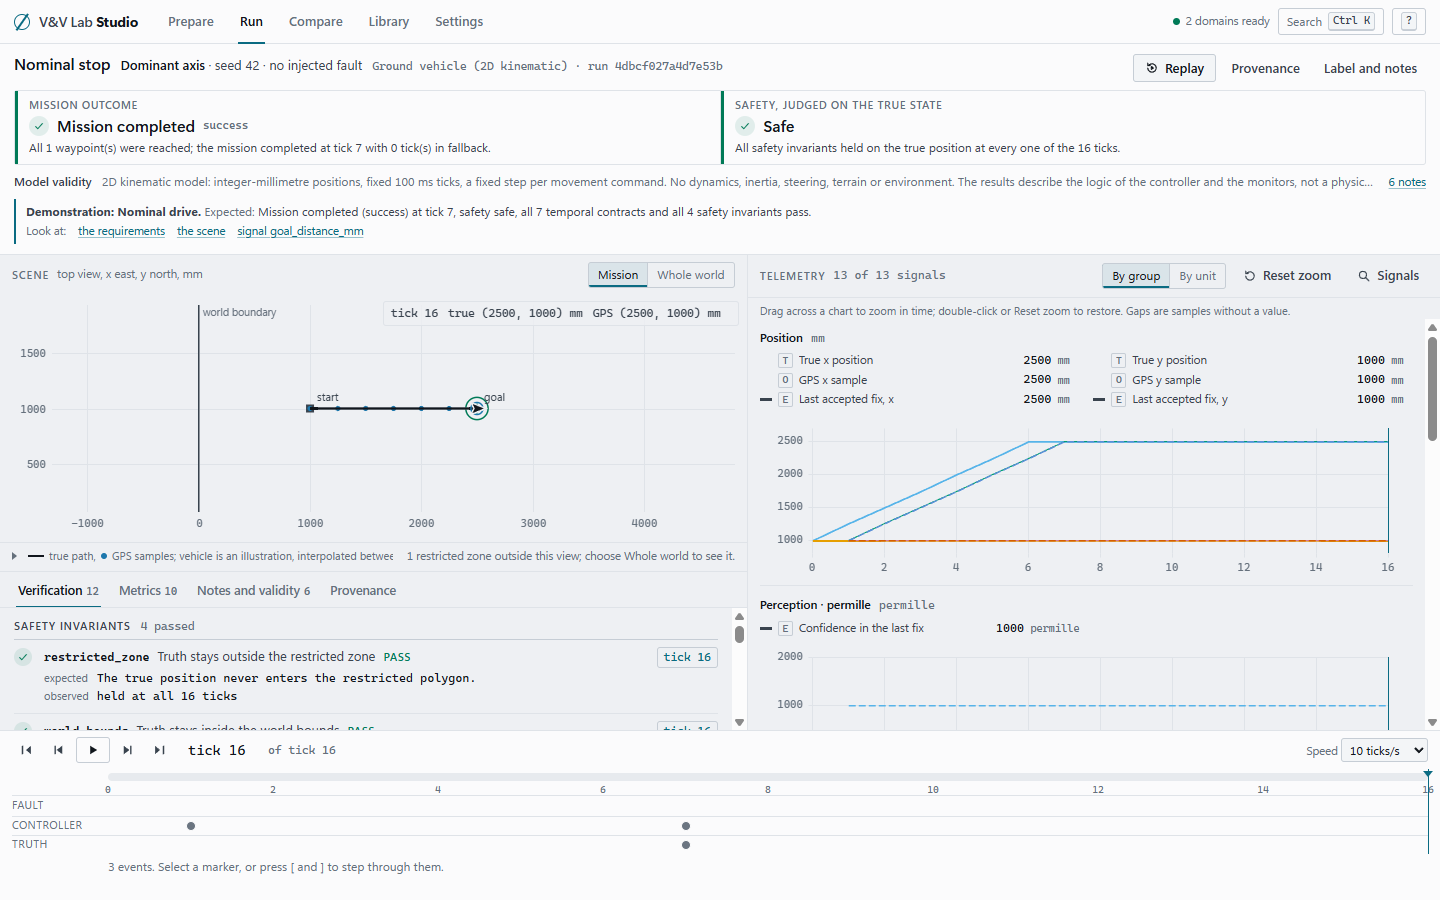
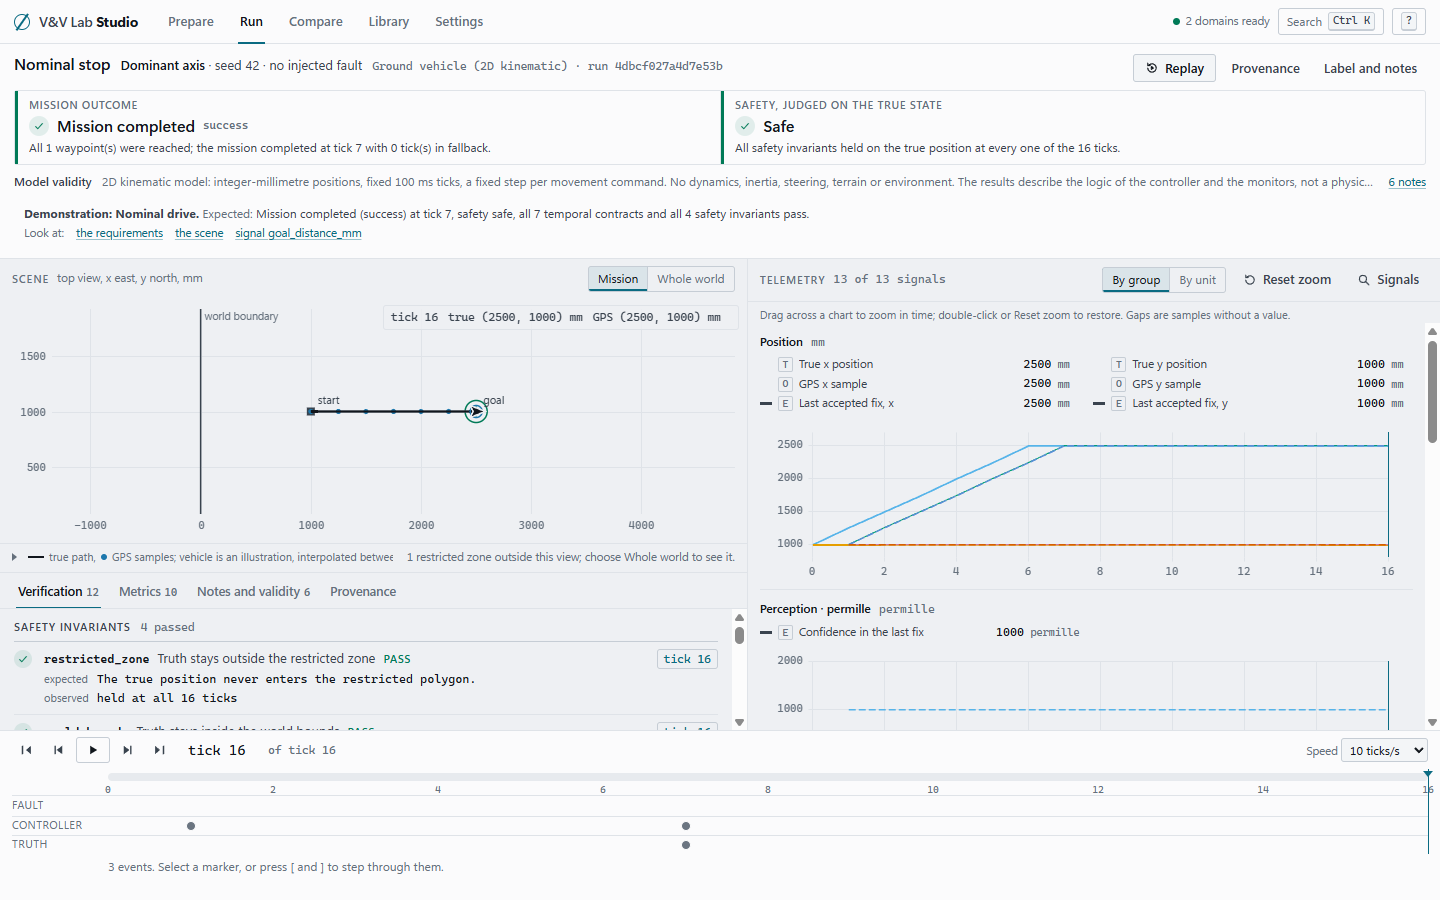
docs: add the M11 installation and acceptance guide; drop side-accent borders and test the installed app with real window sizes
The UI test now isolates preferences with VVLAB_CONFIG, resizes the real
window and checks that no user name reaches the screen; it passes 66 of 66
checks against the installed application.

Claude-Session: https://claude.ai/code/session_011CgDRkengmFShBTf66X1be

diff --git a/desktop/studio/ui/css/app.css b/desktop/studio/ui/css/app.css
@@ -263,7 +263,7 @@ input[type="checkbox"], input[type="radio"] { accent-color: var(--accent); width
 .demo-body ul { display: grid; gap: 3px; }
 .demo-body li { padding-left: 12px; position: relative; }
 .demo-body li::before { content: ""; position: absolute; left: 2px; top: .6em; width: 4px; height: 1px; background: var(--fg-3); }
-.expect { border-left: 2px solid var(--accent); padding-left: 8px; color: var(--fg-1); }
+.expect { background: var(--bg-1); border-radius: var(--r); padding: 6px 8px; color: var(--fg-1); }
 
 .saved-item { display: flex; gap: 8px; align-items: center; padding: 6px 0; border-top: 1px solid var(--rule); }
 .saved-item:first-child { border-top: 0; }
@@ -295,7 +295,7 @@ input[type="checkbox"], input[type="radio"] { accent-color: var(--accent); width
 .ranges { font-size: 11.5px; color: var(--fg-3); display: grid; gap: 2px; }
 .ranges .prot { color: var(--fg-2); }
 .ranges .prot b { font-family: var(--mono); font-weight: 600; color: var(--fail); }
-.fault-row { border: 1px solid var(--rule); border-left: 3px solid var(--fault); border-radius: var(--r); padding: 9px 10px; display: grid; gap: 6px; background: var(--bg-1); }
+.fault-row { border: 1px solid color-mix(in srgb, var(--fault) 45%, var(--rule)); border-radius: var(--r); padding: 9px 10px; display: grid; gap: 6px; background: var(--bg-1); }
 .fault-row.is-invalid { border-left-color: var(--unsafe); }
 .fault-head { display: flex; gap: 8px; align-items: center; }
 .fault-head .grow { flex: 1; }
@@ -311,7 +311,7 @@ input[type="checkbox"], input[type="radio"] { accent-color: var(--accent); width
 .params { display: grid; grid-template-columns: repeat(auto-fill, minmax(280px, 1fr)); gap: 10px 18px; }
 .param .field-label .reset { margin-left: auto; }
 .param.is-changed .field-label { color: var(--accent); }
-.form-error { border-left: 3px solid var(--unsafe); background: var(--unsafe-wash); padding: 8px 10px; border-radius: var(--r); color: var(--fg-1); display: flex; gap: 8px; }
+.form-error { border: 1px solid color-mix(in srgb, var(--unsafe) 55%, transparent); background: var(--unsafe-wash); padding: 8px 10px; border-radius: var(--r); color: var(--fg-1); display: flex; gap: 8px; }
 .form-error .ico { color: var(--unsafe); }
 
 .actionbar {
@@ -352,7 +352,7 @@ input[type="checkbox"], input[type="radio"] { accent-color: var(--accent); width
 .validity-strip { grid-column: 1 / -1; display: flex; gap: 10px; align-items: baseline; font-size: 12px; color: var(--fg-3); min-width: 0; }
 .validity-strip .vtext { overflow: hidden; text-overflow: ellipsis; white-space: nowrap; min-width: 0; flex: 1; }
 .validity-strip b { color: var(--fg-2); font-weight: 600; }
-.demo-banner { grid-column: 1 / -1; border-left: 2px solid var(--accent); padding: 4px 10px; display: grid; gap: 3px; font-size: 12px; color: var(--fg-2); }
+.demo-banner { grid-column: 1 / -1; background: var(--bg-1); border-radius: var(--r); padding: 6px 10px; display: grid; gap: 3px; font-size: 12px; color: var(--fg-2); }
 .demo-banner .look { display: flex; flex-wrap: wrap; gap: 2px 12px; align-items: baseline; }
 
 .run-body { display: grid; grid-template-columns: minmax(0, 1.08fr) minmax(0, 1fr); min-height: 0; }
@@ -445,7 +445,7 @@ span.req-t { border-color: transparent; color: var(--fg-3); cursor: default; }
 .metric-group .kv th { white-space: normal; }
 .notes { display: grid; gap: 14px; }
 .notes h3 { font-size: 11px; text-transform: uppercase; letter-spacing: .07em; color: var(--fg-2); margin-bottom: 6px; }
-.validity { border-left: 3px solid var(--fail); padding: 4px 0 4px 10px; }
+.validity { border: 1px solid color-mix(in srgb, var(--fail) 45%, var(--rule)); border-radius: var(--r); padding: 6px 10px; }
 .note-list { display: grid; gap: 6px; }
 .note-list li { padding-left: 14px; position: relative; color: var(--fg-2); max-width: 90ch; }
 .note-list li::before { content: ""; position: absolute; left: 2px; top: .62em; width: 5px; height: 5px; border: 1px solid var(--fg-3); transform: rotate(45deg); }
@@ -581,7 +581,7 @@ span.req-t { border-color: transparent; color: var(--fg-3); cursor: default; }
 .cmp-signals { grid-column: 1 / -1; border-top: 1px solid var(--rule); display: flex; flex-direction: column; }
 .cmp-transport { display: flex; gap: 10px; align-items: center; padding: 6px 14px; border-top: 1px solid var(--rule); border-bottom: 1px solid var(--rule); background: var(--bg-1); }
 .cmp-transport input[type="range"] { flex: 1; accent-color: var(--accent); }
-.cmp-errors { border-left: 3px solid var(--unsafe); padding: 6px 10px; background: var(--unsafe-wash); }
+.cmp-errors { border: 1px solid color-mix(in srgb, var(--unsafe) 55%, transparent); padding: 6px 10px; background: var(--unsafe-wash); }
 .cmp-pick { display: flex; gap: 8px; align-items: center; flex-wrap: wrap; padding: 8px 14px; }
 .cmp-pick .select { width: auto; max-width: 340px; }
 .cmp-chips { display: flex; gap: 4px; flex-wrap: wrap; }
@@ -593,7 +593,7 @@ span.req-t { border-color: transparent; color: var(--fg-3); cursor: default; }
 /* ------------------------------------------------------------------ library */
 .lib { display: grid; grid-template-rows: auto auto minmax(0, 1fr); height: 100%; }
 .lib-head { display: flex; gap: 10px; align-items: center; padding: 10px 14px; border-bottom: 1px solid var(--rule); background: var(--bg-1); }
-.lib-head .lib-path { min-width: 0; flex: 0 1 auto; overflow: hidden; text-overflow: ellipsis; white-space: nowrap; direction: rtl; text-align: left; }
+.lib-head .lib-path { min-width: 0; flex: 0 1 auto; overflow: hidden; text-overflow: ellipsis; white-space: nowrap; }
 .lib-filters { display: flex; gap: 8px; align-items: center; padding: 8px 14px; border-bottom: 1px solid var(--rule); flex-wrap: wrap; }
 .lib-filters .input { width: 260px; }
 .lib-filters .select { width: auto; }
@@ -627,7 +627,7 @@ span.req-t { border-color: transparent; color: var(--fg-3); cursor: default; }
 
 /* ------------------------------------------------------------------ overlays */
 .toasts { position: fixed; right: 14px; bottom: 14px; display: grid; gap: 6px; z-index: 100; max-width: min(460px, calc(100vw - 28px)); }
-.toast { display: flex; gap: 10px; align-items: flex-start; padding: 8px 8px 8px 12px; background: var(--bg-1); border: 1px solid var(--rule-strong); border-left: 3px solid var(--accent); border-radius: var(--r); box-shadow: var(--shadow); font-size: 12.5px; animation: rise .18s var(--ease); }
+.toast { display: flex; gap: 10px; align-items: flex-start; padding: 8px 8px 8px 12px; background: var(--bg-1); border: 1px solid var(--rule-strong); border-radius: var(--r); box-shadow: var(--shadow); font-size: 12.5px; animation: rise .18s var(--ease); }
 .toast-error { border-left-color: var(--unsafe); }
 .toast-ok { border-left-color: var(--pass); }
 .toast span { flex: 1; overflow-wrap: anywhere; }

diff --git a/desktop/studio/tests/ui_smoke.py b/desktop/studio/tests/ui_smoke.py
@@ -1,6 +1,8 @@
-"""Automated UI smoke test of V&V Lab Studio, driving the real WebView2 window.
+r"""Automated UI smoke test of V&V Lab Studio, driving the real WebView2 window.
 
-It launches the built studio executable with a fresh library, connects Playwright to the WebView2
+It launches a studio executable with a scratch library and a scratch configuration folder
+(VVLAB_LIBRARY, VVLAB_CONFIG), so it never reads or writes the user's own preferences or library,
+connects Playwright to the WebView2
 DevTools endpoint (no browser download), waits for the platform, runs the product journeys and
 asserts what is visible on screen. Screenshots of each journey (dark and light, and a small window)
 are written to docs/images/m11-studio/.
@@ -9,8 +11,14 @@ Usage (from the repository root, after `cargo build -p vv-studio` in desktop/):
 
     python desktop/studio/tests/ui_smoke.py [--exe PATH] [--domains DIR] [--shots DIR] [--port N]
 
+Against the installed application, using the domain hosts installed next to it:
+
+    python desktop/studio/tests/ui_smoke.py --exe "%LOCALAPPDATA%\VV Lab Studio\vv-studio.exe" --domains ""
+
+`--domains ""` leaves VVLAB_DOMAINS unset, so the studio uses its own resource directory.
+Window sizes are set on the real window (Tauri setSize); DevTools viewport emulation is used only
+if the window does not reach the requested inner size, and the report says which was used.
 Requires `pip install playwright` (only the Python package; CDP needs no browser download).
-The user preferences file of the studio is saved before the test and restored afterwards.
 """
 
 import argparse
@@ -30,6 +38,7 @@ REPO = os.path.abspath(os.path.join(os.path.dirname(__file__), "..", "..", "..")
 
 results = []
 console_errors = []
+sizing = []  # (requested, method, inner size reached)
 
 
 def check(name, cond, detail=""):
@@ -64,6 +73,8 @@ class Studio:
 
     def shot(self, name):
         path = os.path.join(self.shots, name + ".png")
+        # Transient notifications from earlier steps would hide part of the documented state.
+        self.page.evaluate("document.querySelectorAll('#toasts .toast').forEach((t) => t.remove())")
         self.page.screenshot(path=path)
         return path
 
@@ -109,6 +120,44 @@ class Studio:
 
     def verdict(self, which):
         return self.page.inner_text(f".verdict[aria-label='{which}'] .verdict-v").strip()
+
+    def resize(self, w, h):
+        """Sets the inner size of the real window; falls back to viewport emulation if it is not reached."""
+        try:
+            self.cdp().send("Emulation.clearDeviceMetricsOverride")
+        except Exception:
+            pass
+        err = None
+        try:
+            self.page.evaluate("([w, h]) => window.__TAURI__.window.getCurrentWindow().setSize(new window.__TAURI__.window.LogicalSize(w, h))", [w, h])
+        except Exception as e:
+            err = str(e)
+        got = None
+        t0 = time.time()
+        while time.time() - t0 < 3:
+            got = self.js("[innerWidth, innerHeight]")
+            if abs(got[0] - w) <= 1 and abs(got[1] - h) <= 1:
+                break
+            time.sleep(0.1)
+        if err is None and abs(got[0] - w) <= 1 and abs(got[1] - h) <= 1:
+            sizing.append((f"{w}x{h}", "real window", f"{got[0]}x{got[1]}"))
+        else:
+            self.page.set_viewport_size({"width": w, "height": h})
+            sizing.append((f"{w}x{h}", "emulation fallback", f"window reached {got[0]}x{got[1]}" + (f"; setSize error {err}" if err else "")))
+        time.sleep(0.6)
+
+    def cdp(self):
+        if not hasattr(self, "_cdp"):
+            self._cdp = self.page.context.new_cdp_session(self.page)
+        return self._cdp
+
+    def no_private_text(self):
+        """True when no visible text shows the user name or the profile folder."""
+        user = os.environ.get("USERNAME", "")
+        profile = os.environ.get("USERPROFILE", "")
+        text = self.js("document.body.innerText")
+        bad = [x for x in (user, profile) if x and x.lower() in text.lower()]
+        return not bad, bad
 
     def no_hscroll(self):
         return self.js("""() => {
@@ -167,6 +216,8 @@ def journeys(s):
     s.wait("document.querySelector('.replay-verdict')", what="replay verdict")
     check("replay verified", "Verified" in p.inner_text(".replay-verdict"), p.inner_text(".replay-verdict"))
     check("replay lists its checks", p.locator(".checks li").count() >= 3)
+    p.evaluate("document.querySelector('.replay-verdict').scrollIntoView({ block: 'start' })")
+    time.sleep(0.2)
     s.shot("replay-verified-dark")
 
     # Matched comparison from the form: the same seed and faults on two controllers.
@@ -349,6 +400,8 @@ def journeys(s):
     check("library search finds the run by its new label", p.locator(".lib-table tbody tr[data-run]").count() == 1)
     p.fill("#lib-search", "")
     time.sleep(0.3)
+    ok, bad = s.no_private_text()
+    check("library shows no user name or profile path", ok, ", ".join(bad))
     s.both("library")
 
     # Keyboard help and the command palette.
@@ -369,7 +422,8 @@ def journeys(s):
 
     # Evidence export through the shell command (the Save dialog itself is not automated).
     exported = s.invoke("export_evidence", {"runId": j2_run, "choose": False})
-    check("evidence package exported to the library", bool(exported) and str(exported).endswith(".zip") and os.path.isfile(exported), str(exported))
+    exported_file = os.path.expandvars(str(exported).replace("%USERPROFILE%", os.environ.get("USERPROFILE", ""))) if exported else ""
+    check("evidence package exported to the library", bool(exported) and str(exported).endswith(".zip") and os.path.isfile(exported_file), str(exported))
 
     # Theme switch.
     s.theme("light")
@@ -399,11 +453,12 @@ def journeys(s):
     s.both("developer-reference-domain")
     s.nav("settings")
     time.sleep(0.3)
+    ok, bad = s.no_private_text()
+    check("settings show no user name or profile path", ok, ", ".join(bad))
     s.shot("settings-dark")
 
     # Minimum window: 1024 x 640 without horizontal page scroll, in every workspace.
-    p.set_viewport_size({"width": 1024, "height": 640})
-    time.sleep(0.6)
+    s.resize(1024, 640)
     ok = True
     for v in ["prepare", "run", "compare", "library", "settings"]:
         s.nav(v)
@@ -434,8 +489,7 @@ def journeys(s):
     check("1024x640: rocket run workspace without horizontal scroll", s.no_hscroll())
     s.shot("small-1024x640-run-dark")
     for w, h in [(1366, 768), (1920, 1080)]:
-        p.set_viewport_size({"width": w, "height": h})
-        time.sleep(0.5)
+        s.resize(w, h)
         check(f"{w}x{h}: no horizontal scroll in the run workspace", s.no_hscroll())
         s.shot(f"run-{w}x{h}-dark")
 
@@ -443,24 +497,31 @@ def journeys(s):
 def main():
     ap = argparse.ArgumentParser()
     ap.add_argument("--exe", default=os.path.join(REPO, "desktop", "target", "debug", "vv-studio.exe"))
-    ap.add_argument("--domains", default=os.path.join(REPO, "desktop", "target", "release", "domains"))
+    ap.add_argument("--domains", default=os.path.join(REPO, "desktop", "target", "release", "domains"),
+                    help='domain hosts folder; "" leaves VVLAB_DOMAINS unset (installed resource directory)')
     ap.add_argument("--shots", default=os.path.join(REPO, "docs", "images", "m11-studio"))
     ap.add_argument("--port", type=int, default=9222)
     ap.add_argument("--keep-library", action="store_true")
     a = ap.parse_args()
+    a.exe = os.path.expandvars(a.exe)
     if not os.path.isfile(a.exe):
         print(f"studio executable not found: {a.exe} (build it with `cargo build -p vv-studio` in desktop/)")
         return 2
     os.makedirs(a.shots, exist_ok=True)
     library = tempfile.mkdtemp(prefix="vv-studio-ui-")
+    config = tempfile.mkdtemp(prefix="vv-studio-ui-config-")
     env = dict(os.environ)
-    env["VVLAB_DOMAINS"] = a.domains
+    env.pop("VVLAB_DOMAINS", None)
+    env.pop("VVLAB_EXTRA_DOMAINS", None)
+    if a.domains:
+        env["VVLAB_DOMAINS"] = a.domains
     env["VVLAB_LIBRARY"] = library
+    env["VVLAB_CONFIG"] = config
+    print(f"exe {a.exe}\ndomains {a.domains or '(installed resource directory)'}\nlibrary {library}\nconfig {config}")
     env["WEBVIEW2_ADDITIONAL_BROWSER_ARGUMENTS"] = f"--remote-debugging-port={a.port}"
     # A running instance would swallow the launch (single-instance plugin) and keep its own library.
     subprocess.run(["taskkill", "/F", "/IM", os.path.basename(a.exe)], capture_output=True)
     proc = subprocess.Popen([a.exe], env=env)
-    saved_prefs = None
     page = None
     try:
         for _ in range(120):
@@ -476,11 +537,11 @@ def main():
             page.on("console", lambda m: console_errors.append(m.text) if m.type == "error" else None)
             s = Studio(page, a.shots)
             s.wait("window.__TAURI__ && window.__studio", what="studio script")
-            # Start from default preferences; restore the user's file afterwards.
-            saved_prefs = s.invoke("get_prefs")
+            # Preferences live in the scratch VVLAB_CONFIG folder; start from the defaults plus dark.
+            check("preferences start empty in the scratch configuration", s.invoke("get_prefs") == {})
             try:
                 s.invoke("set_prefs", {"prefs": {"theme": "dark"}})
-                page.set_viewport_size({"width": 1440, "height": 900})
+                s.resize(1440, 900)
                 page.reload()
                 t0 = time.time()
                 s.wait("window.__studio && document.getElementById('startup').hidden", timeout=90, what="platform ready")
@@ -495,18 +556,15 @@ def main():
                     s.shot("failure-state")
                 except Exception:
                     pass
-            finally:
-                # Always give the user back their own preferences file.
-                try:
-                    s.invoke("set_prefs", {"prefs": saved_prefs})
-                except Exception as e:
-                    print(f"warning: could not restore the user preferences: {e}")
             check("no script error in the page", not console_errors, "; ".join(console_errors[:5]))
     finally:
         proc.kill()
         proc.wait(timeout=10)
         if not a.keep_library:
             shutil.rmtree(library, ignore_errors=True)
+            shutil.rmtree(config, ignore_errors=True)
+    for req, method, reached in sizing:
+        print(f"window {req}: {method} ({reached})")
     failed = [r for r in results if not r[1]]
     print(f"\n{len(results) - len(failed)} of {len(results)} checks passed; screenshots in {a.shots}")
     return 1 if failed else 0

diff --git a/docs/m11-acceptance.md b/docs/m11-acceptance.md
@@ -1,0 +1,51 @@
+# M11: guia de instalação e aceitação
+
+Para o dono do projeto. Descreve como instalar o V&V Lab Studio, o que verificar e o que já foi verificado, com os comandos e os limites de cada verificação. A arquitetura está em [m11-desktop.md](m11-desktop.md).
+
+## Instalar
+
+1. Obter o instalador `VV Lab Studio_0.11.0_x64-setup.exe` (construído por `desktop\build.ps1`, em `desktop\target\release\bundle\nsis\`; 5 697 742 bytes). O instalador não é assinado: o SmartScreen mostra "O Windows protegeu o computador"; escolher "Mais informações" e "Executar mesmo assim".
+2. Correr o instalador. A instalação é por utilizador (sem pedido de administrador) em `%LOCALAPPDATA%\VV Lab Studio\`, com atalho no menu Iniciar e no ambiente de trabalho. O WebView2 já vem no Windows 11; se faltar, o instalador traz o instalador de arranque do WebView2.
+3. Abrir "VV Lab Studio" no menu Iniciar. Não abre nenhuma consola.
+
+Instalação silenciosa: `"VV Lab Studio_0.11.0_x64-setup.exe" /S`. Desinstalação: Definições do Windows, Aplicações, ou `%LOCALAPPDATA%\VV Lab Studio\uninstall.exe` (`/S` para silenciosa). A desinstalação não apaga `Documentos\VV Lab Library`.
+
+## Percurso de aceitação (cerca de 15 minutos)
+
+1. **Arranque.** O indicador no canto superior direito passa a "2 domains ready" (veículo terrestre e foguetão). Settings mostra os domínios, a versão do contrato `vv-domain 1.0`, a pasta da biblioteca e nenhum domínio recusado.
+2. **Missão terrestre nominal.** Prepare, Ground vehicle, demonstração "Nominal drive": a missão termina no tick 7, segura, com os 12 resultados aprovados.
+3. **Missão terrestre com falha.** Demonstração "A delayed command moves the vehicle in fallback": a execução "as built" fica incompleta e insegura; `safe_fallback` falha no tick 7. Clicar nesse requisito leva o cursor e a cena a esse tick.
+4. **Aterragem nominal.** Rocket powered landing, demonstração "Nominal powered landing": `robust` e `m10_b_plus` aterram, seguras, classe R. Rodar a cena 3D, usar os modos Follow, Pad e Side, arrastar a linha de tempo e confirmar que os gráficos e a cena seguem o mesmo cursor.
+5. **Falha de sensor gerida.** Demonstração "Sensor fault with successful fault management": B+ aterra (R) com um isolamento correto do radar; B aterra; A toca duro (U, R2 e R5 falham), sem invariante falhado. Na comparação, a matriz marca as divergências.
+6. **Duas falhas com resultado inseguro.** Demonstração "Two faults and an unsafe outcome": `baseline` não toca o solo e é insegura (S5, subida com motor, primeira falha a 20,85 s); `robust` e `guarded` aterram; B+ toca fora da plataforma (classe T) e permanece segura. O resultado da missão e a segurança aparecem em blocos separados.
+7. **Sementes protegidas.** Numa missão de foguetão, escrever a semente 3000: o campo recusa-a com a razão (avaliação do M10) e o botão de execução fica bloqueado; o mesmo para 6000 (reserva). No veículo terrestre, 101 a 112 (conjunto de aceitação do M6).
+8. **Reprodução e evidência.** Numa execução, Replay: todas as verificações passam e o veredicto é "verified". Provenance, Export evidence: escolher onde guardar o zip e abrir com "Show in Explorer".
+9. **Biblioteca.** Library: procurar por semente ou controlador, editar etiqueta e notas, abrir uma comparação guardada.
+10. **Domínio de referência.** Settings, "Show developer domains": aparece o oscilador de referência, que corre, compara, reproduz e exporta pelos mesmos ecrãs.
+11. **Desinstalar e reinstalar.** Desinstalar, confirmar que `Documentos\VV Lab Library` continua com as execuções, reinstalar e ver as execuções outra vez na Library.
+
+## O que foi verificado
+
+Máquina: Windows 11 Pro 10.0.26300, x64, 16 processadores lógicos, 32 GB, WebView2 156.0.4314.58. Data: 02/11/2026.
+
+| Verificação | Comando ou método | Resultado |
+| --- | --- | --- |
+| Verificações da raiz (AGENTS.md) | `cargo fmt --check`, `cargo clippy --all-targets -- -D warnings`, `cargo test`, `python -m unittest discover -s tests -p "test_*.py"`, `cargo build --release`, `python scripts/run_campaign.py --seeds 42,1337,2026 --output-root runs/campaign` | 138 testes Rust e 400 testes Python (3 ignorados) passam; campanha `passed` (87 casos, 324 invocações) |
+| Espaço de trabalho `desktop/` | `cargo fmt --check`, `cargo clippy --all-targets -- -D warnings`, `cargo test` | limpo; 44 testes passam |
+| Paridade com o CLI | anfitrião do foguetão contra `vv-rocket land` (altímetro preso, B+, semente 5000); anfitrião terrestre contra `vv-lab run-m4` (`delayed_after_fallback`) | `case`, `trace`, `verification` e `run` iguais byte a byte; as cinco saídas terrestres iguais |
+| Instalação silenciosa | `setup.exe /S` | código 0; executáveis, domínios, atalhos no menu Iniciar e no ambiente de trabalho e entrada de desinstalação em HKCU |
+| Sem ambientes de desenvolvimento | `vv-studio.exe --self-test` instalado, com `PATH=C:\Windows\System32;C:\Windows` e sem variáveis de Rust, Python ou Node, observando os processos filhos | passa (veículo terrestre e foguetão correm e reproduzem como "verified"); processos filhos: só os anfitriões, `vv-lab.exe` e `conhost.exe` |
+| Dependências nativas | procura de `VCRUNTIME140.dll` nos executáveis instalados | nenhum o importa; só a UCRT do sistema (`api-ms-win-crt-*`) |
+| Desinstalação | `uninstall.exe /S` | aplicação, atalhos e entrada de desinstalação removidos; ficheiro de teste na biblioteca mantido |
[1 lines of base64/hex data omitted]
+
+## Limites destas verificações
+
+- **Não foi testado num computador limpo.** Não há Windows Sandbox nem máquina virtual nesta máquina. A aproximação foi a aplicação instalada, com o `PATH` reduzido às pastas do Windows, a observação dos processos filhos e a procura de dependências do runtime de Visual C++. Uma máquina sem WebView2 ou com políticas de grupo restritivas não foi testada.
+- O instalador não é assinado; não foi testado com SmartScreen num computador sem histórico.
+- A janela "Guardar como" do Windows e o "Show in Explorer" não fazem parte do teste automático.
+
+## Estado científico, separado do estado do produto
+
+- **Produto:** as verificações acima e o percurso de aceitação.
+- **Ciência:** o M10 continua em desenvolvimento no PR #15 (rascunho). O M11 não alterou o estimador, não congelou nenhuma configuração, não correu sementes de avaliação (3000 a 3099) nem de reserva (6000 a 6099) e não integrou nada em `main`. Os resultados das demonstrações M10 são de desenvolvimento e podem mudar. A decisão de congelar e a avaliação final continuam a ser do dono.
